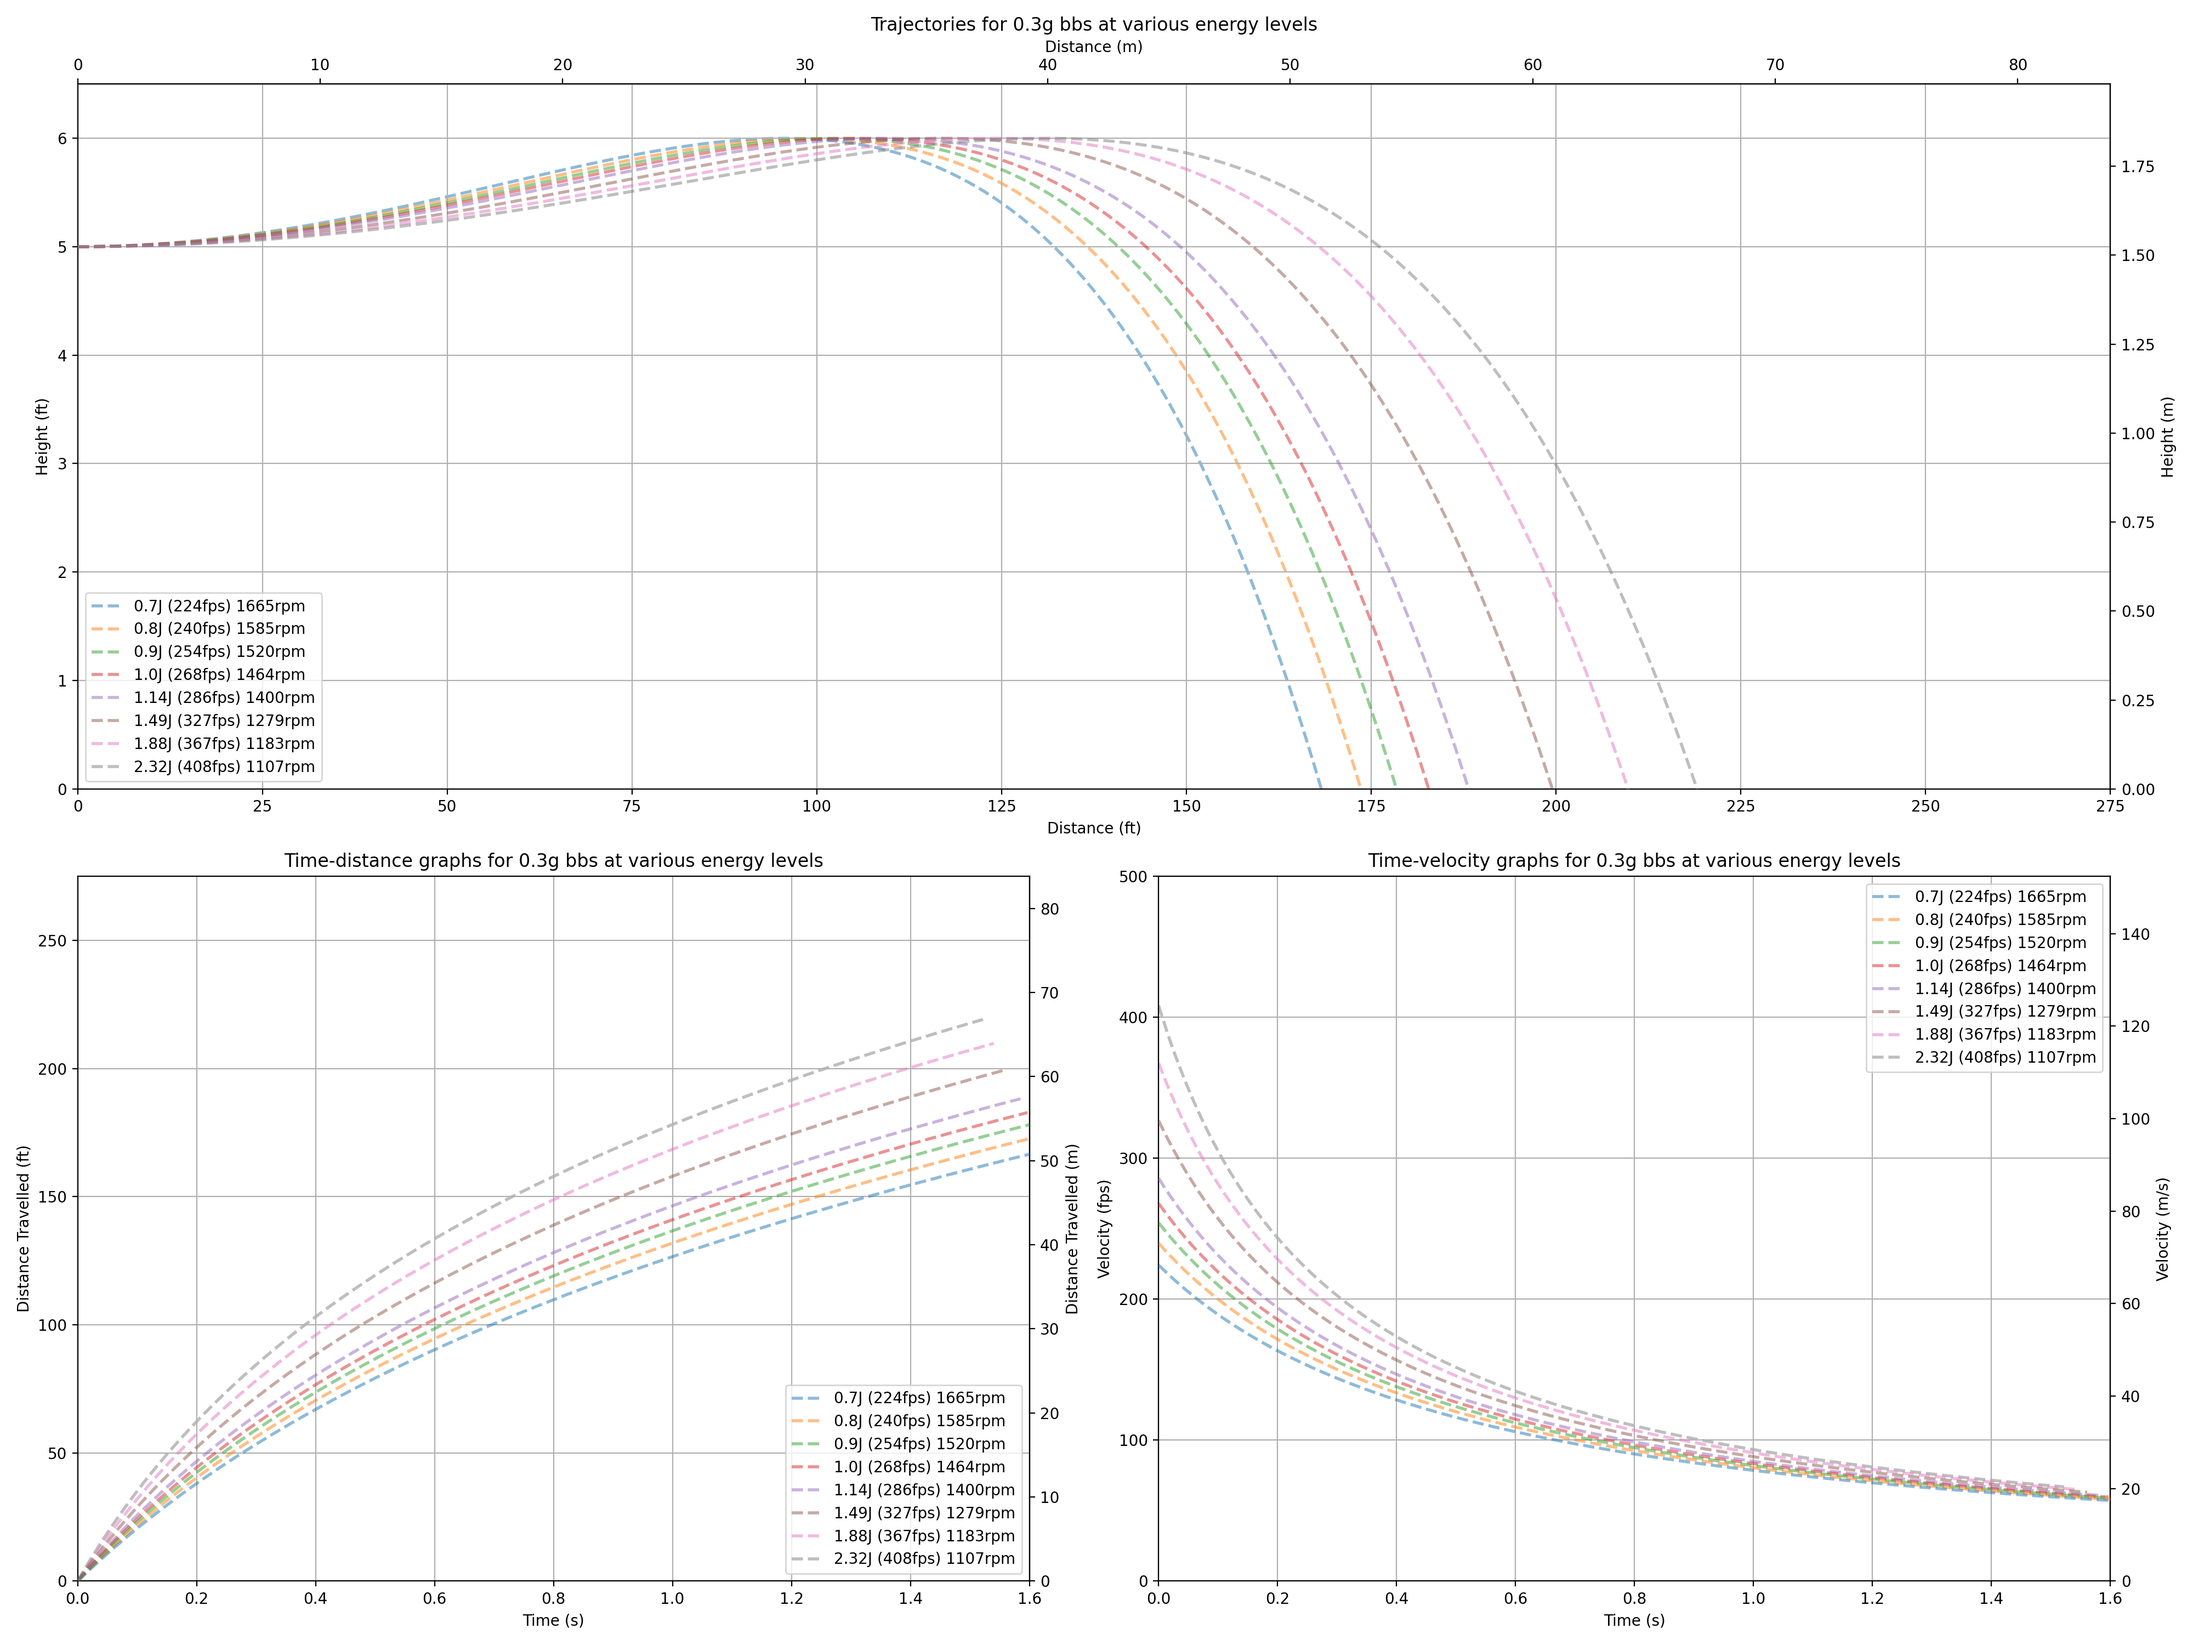
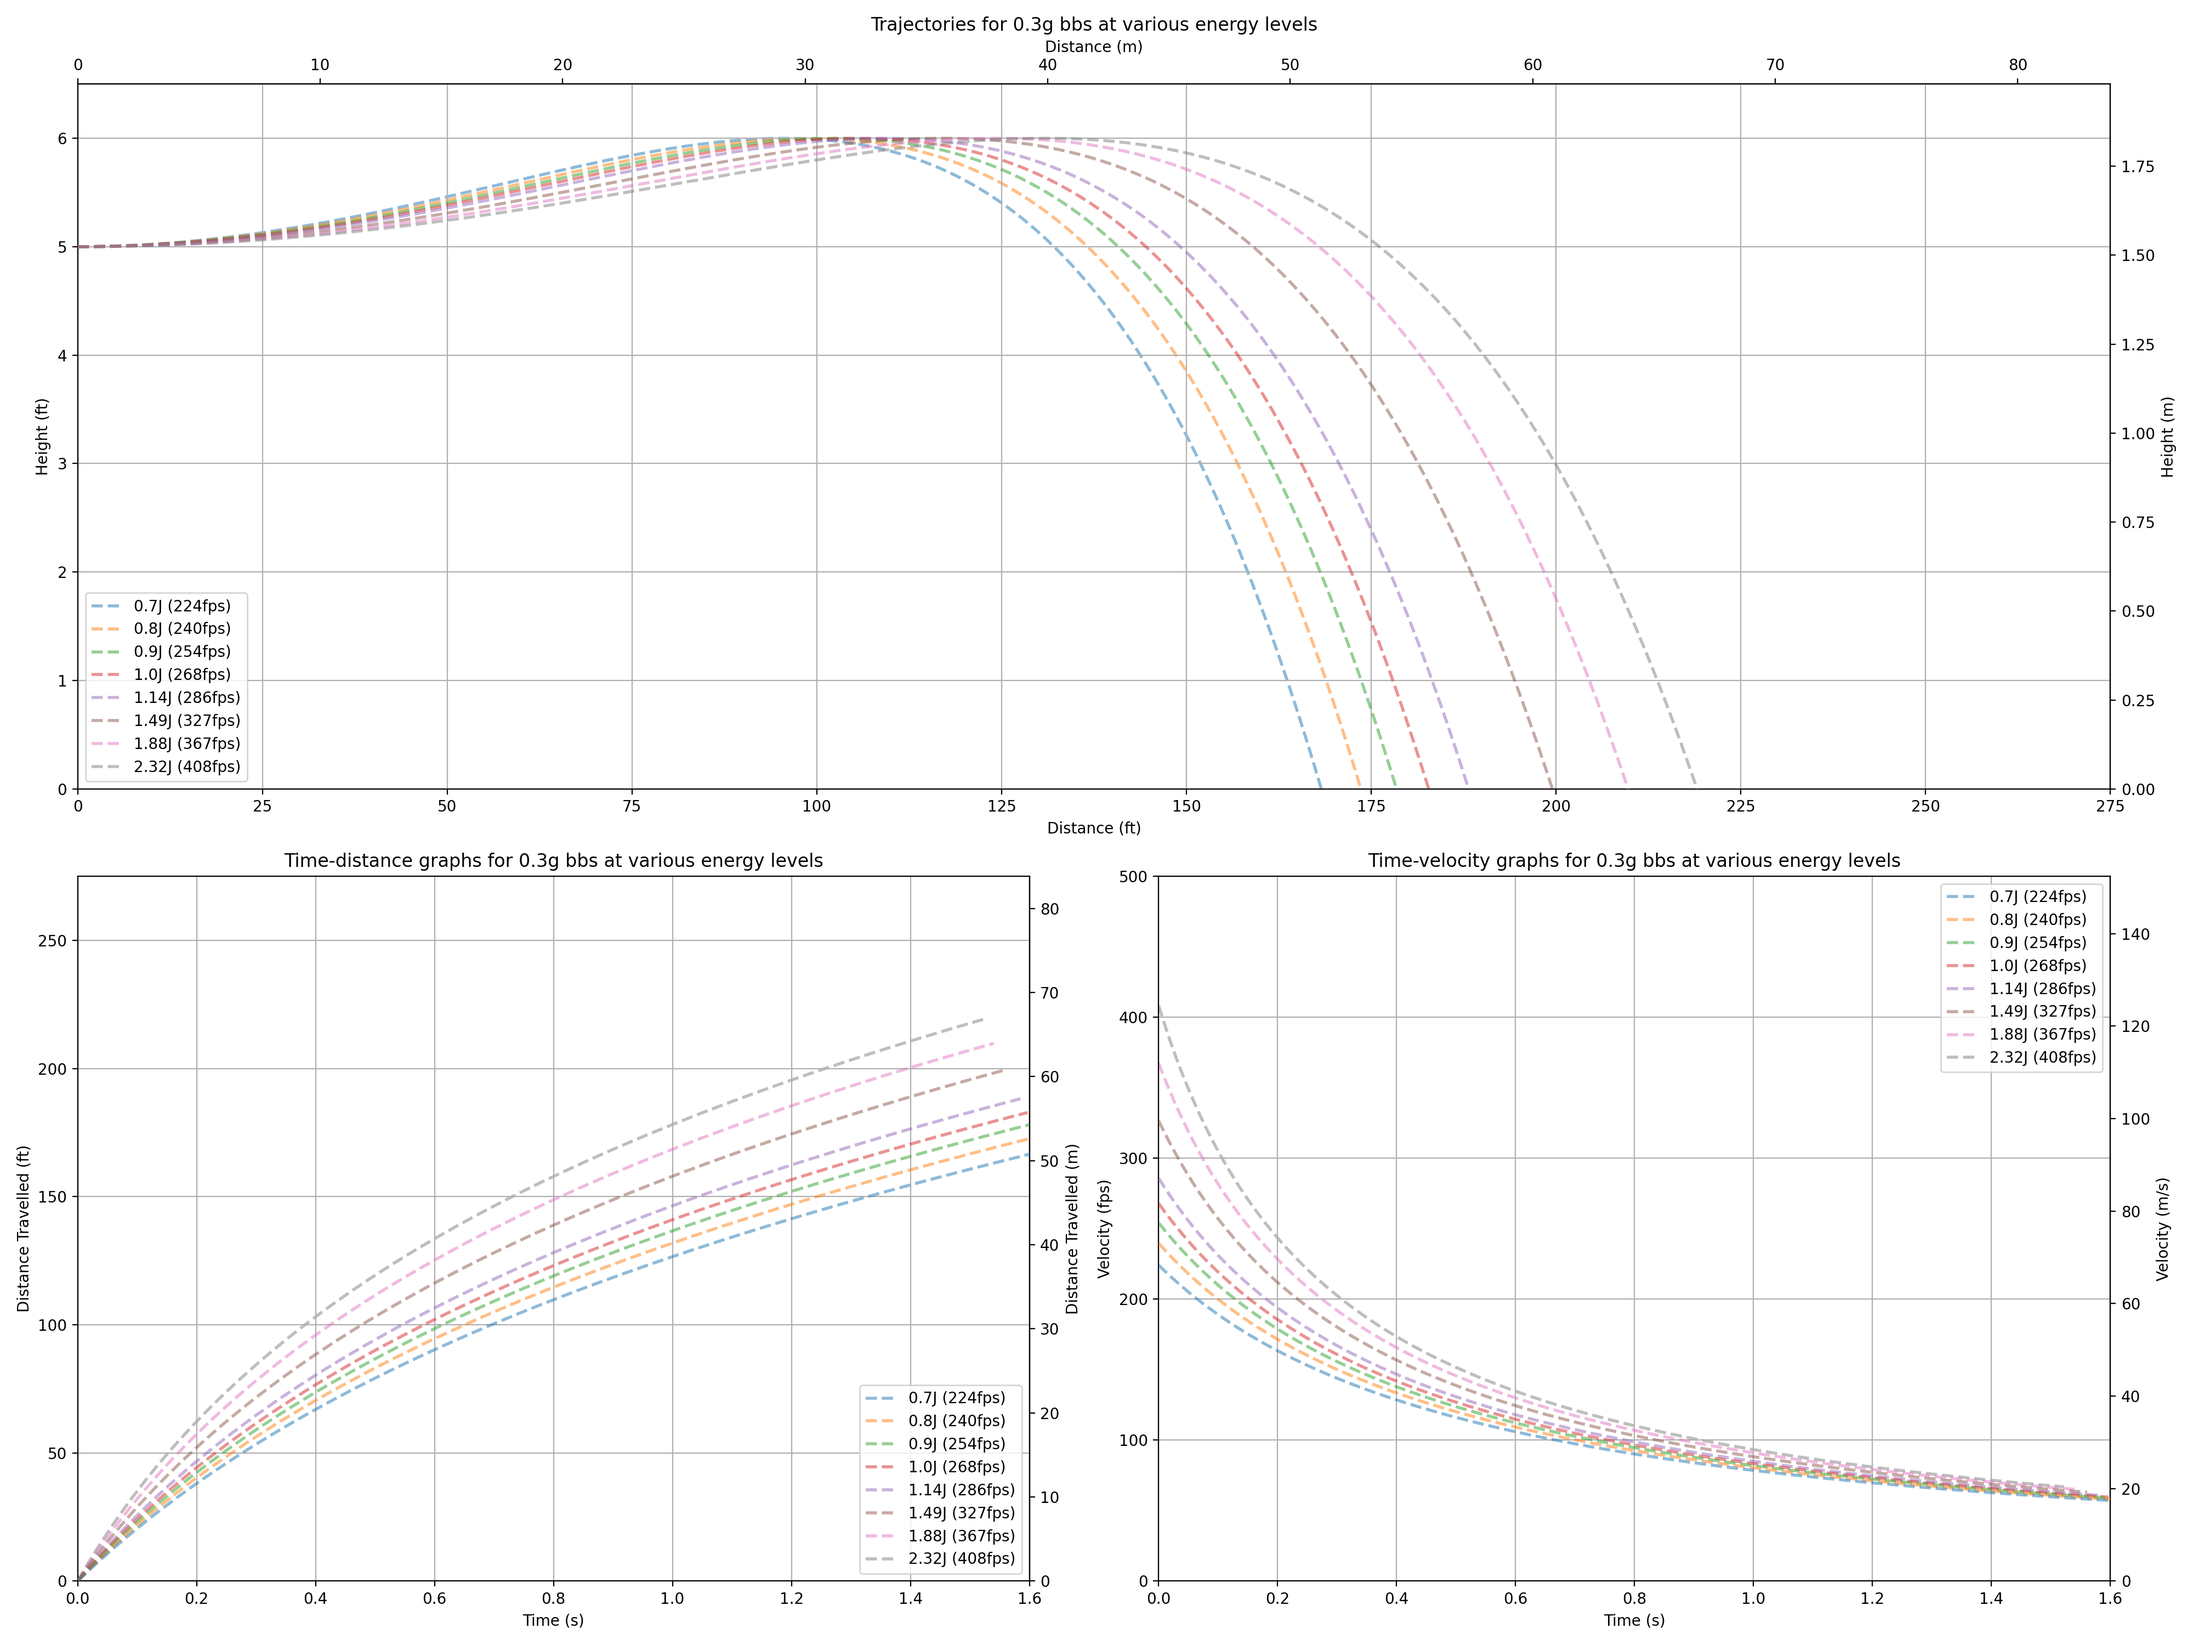
Remove rpm

Changed region(s): [[0.8438, 0.527, 0.9688, 0.651], [0.375, 0.837, 0.4688, 0.961], [0.0938, 0.372, 0.1562, 0.465]]

diff --git a/main.py b/main.py
@@ -53,8 +53,7 @@ class BB_Class:
         self.flight_time = 0
 
     def reynolds_number(self):
-        flow_speed = sqrt(self.velocity[0]**2 + self.velocity[1]**2)
-        return (AIR_DENSITY*flow_speed*BB_DIAMETER)/AIR_DYNAMIC_VISCOSITY
+        return (p*w*b**2)/u
 
     def drag_coef(self):
         return 24/self.reynolds_number()
@@ -164,12 +163,11 @@ def get_bb_fps(result: dict) -> str:
 
 def get_plot_label(subject, result) -> str:
     fps = get_bb_fps(result)
-    stuff = f' {result["rpm"]}rpm'
     if subject == "J":
         label = f'{round(result["mass"]*1000, 2)}g'
     else:
         label = f'{round(result["energy"], 2)}J'
-    return label + fps + stuff
+    return label + fps
 
 
 def plot_graphs(series, datapoint, subject):
